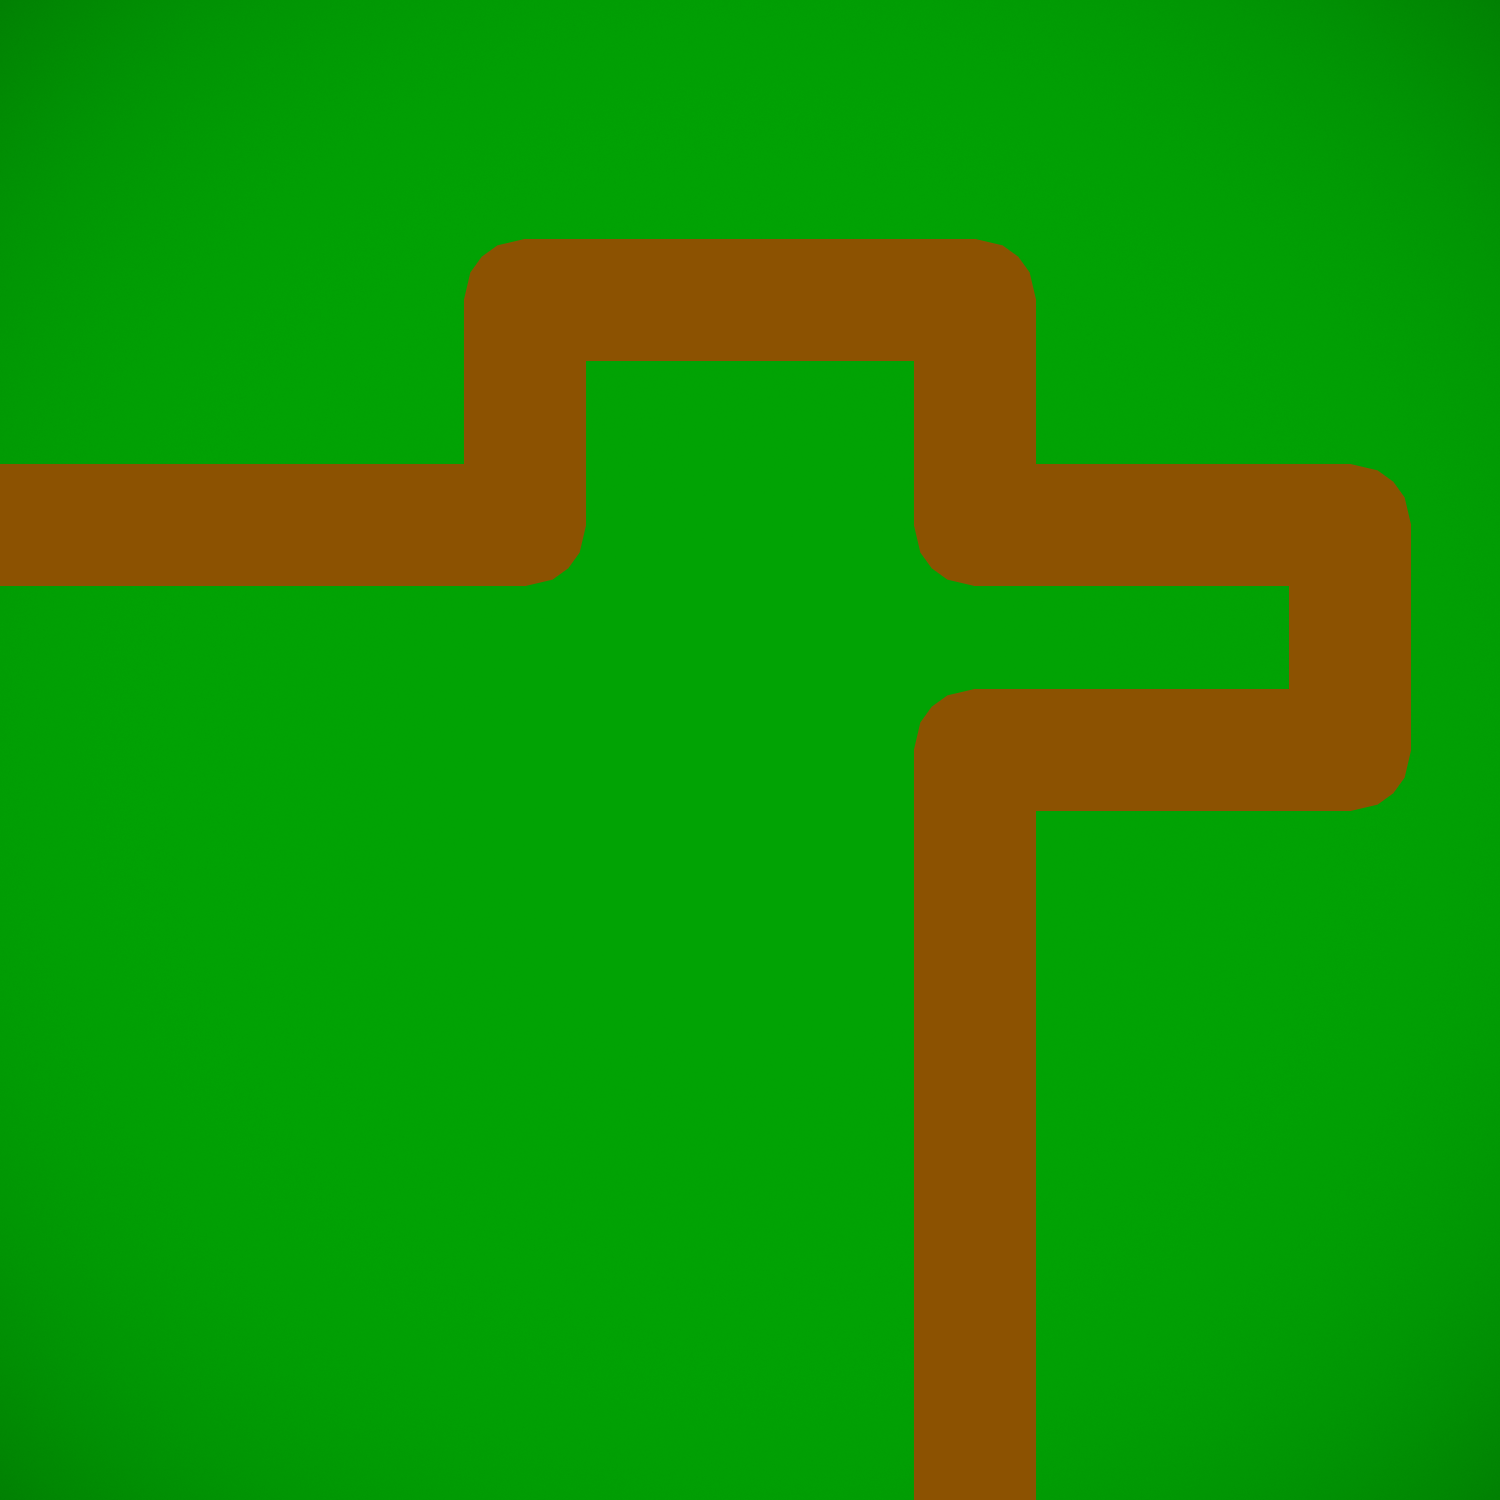
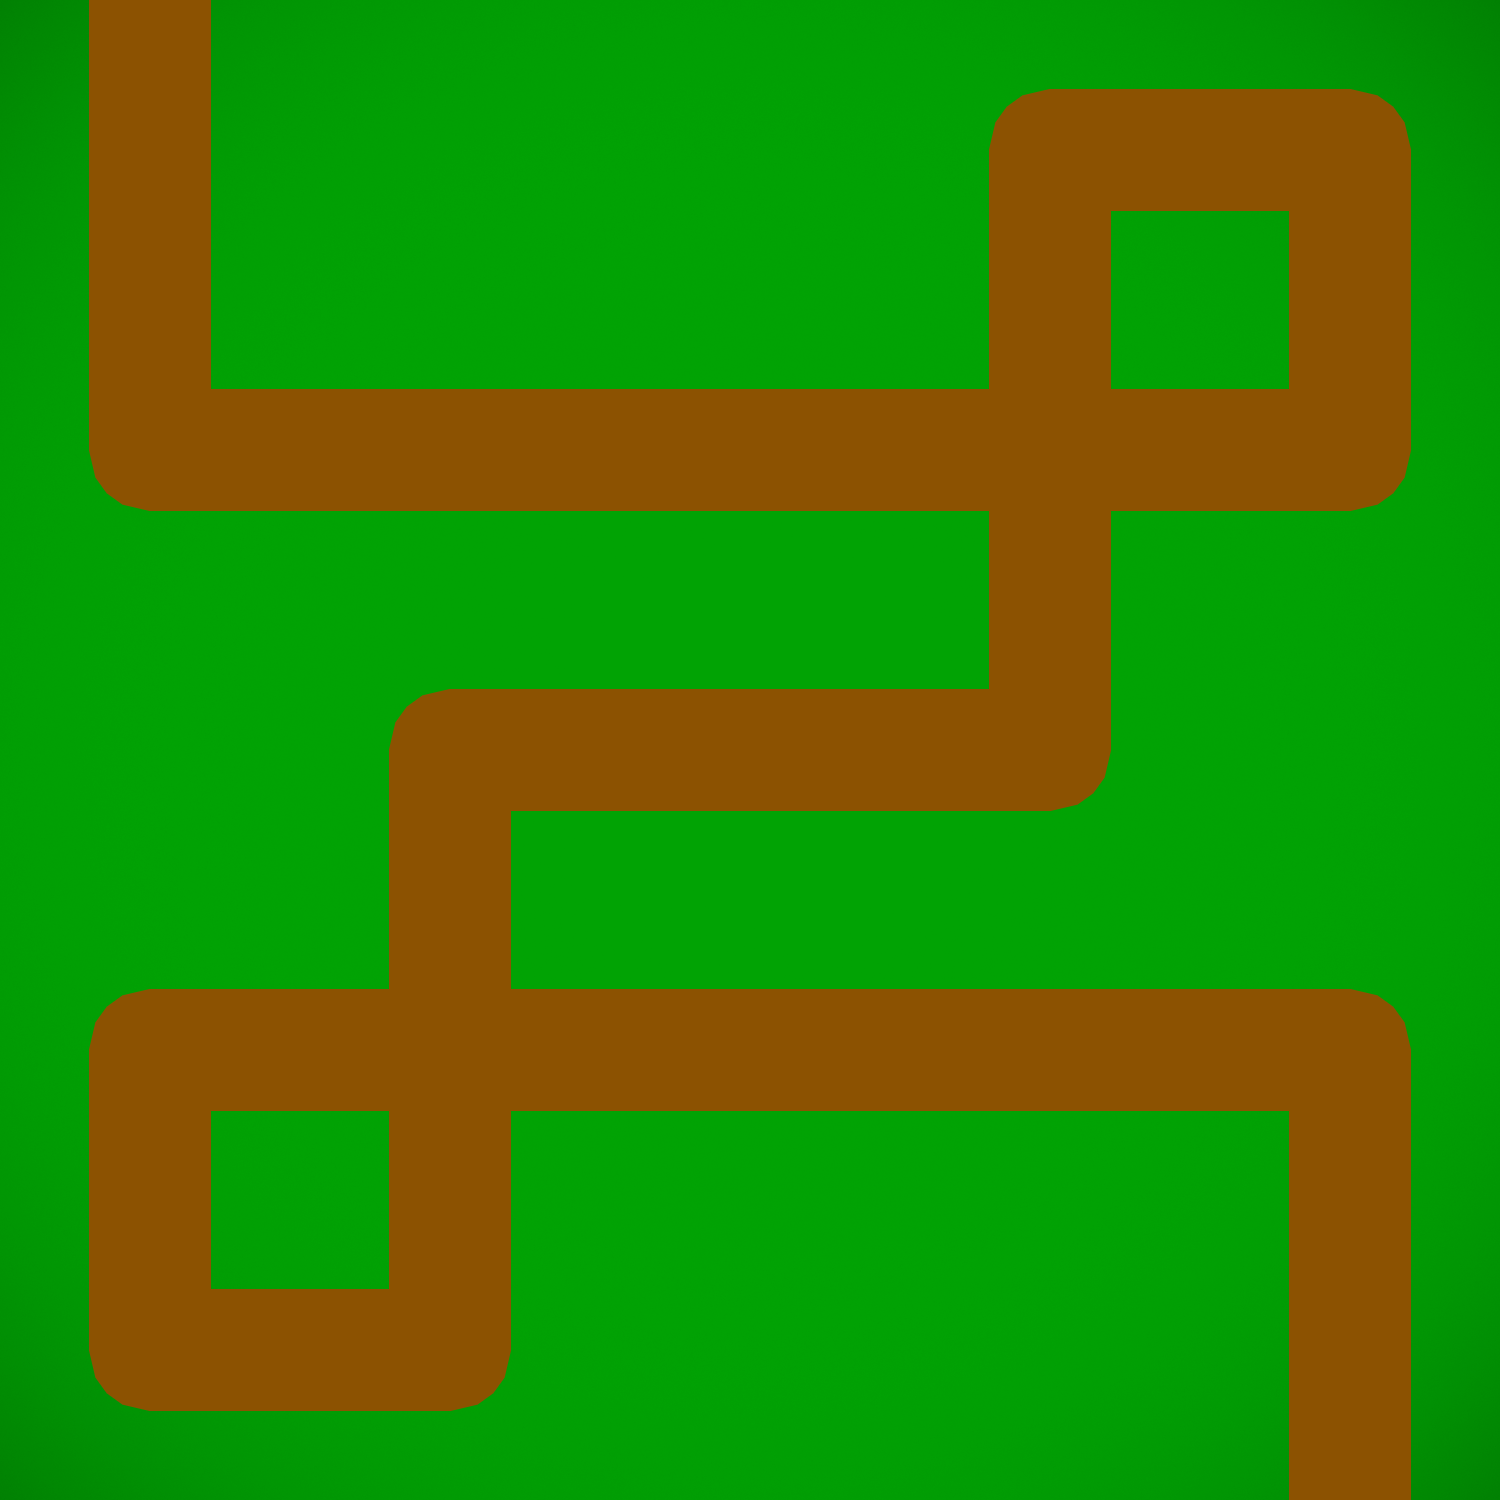
Import image for wave 9

diff --git a/app/utils/create-wave-9.js b/app/utils/create-wave-9.js
@@ -9,14 +9,14 @@ import Wave from 'tower-defense/objects/wave';
 
 function addBoardToWave(wave) {
   const board = Board.create();
-  board.set('imageUrl', '/images/path-0.png');
+  board.set('imageUrl', '/images/path-9.png');
 
   const pathObjects = [
     PathCoords.create({ x: 10, y: -3 }),
-    PathCoords.create({ x: 10, y: 40 }),
-    PathCoords.create({ x: 90, y: 40 }),
-    PathCoords.create({ x: 90, y: 20 }),
-    PathCoords.create({ x: 70, y: 20 }),
+    PathCoords.create({ x: 10, y: 30 }),
+    PathCoords.create({ x: 90, y: 30 }),
+    PathCoords.create({ x: 90, y: 10 }),
+    PathCoords.create({ x: 70, y: 10 }),
     PathCoords.create({ x: 70, y: 50 }),
     PathCoords.create({ x: 30, y: 50 }),
     PathCoords.create({ x: 30, y: 90 }),
@@ -36,14 +36,14 @@ function addBoardToWave(wave) {
 function addMobsToWave(wave) {
   const mobs = [];
 
-  const mobQuantity = 20;
+  const mobQuantity = 25;
   for (var i = 0; i < mobQuantity; i++) {
     const newMob = Mob.create({
       id: generateIdForRecord(),
-      frequency: 950,
+      frequency: 1000,
       health: 300,
       maxHealth: 300,
-      points: 5,
+      points: 4,
       quantity: mobQuantity,
       speed: 10, // seconds to cross one axis of the board
       type: 'standard'
@@ -68,8 +68,8 @@ function addTowerGroupsToWave(wave) {
     });
   }
 
-  const towerGroup1 = getNewTowerGroup(1, 25);
-  const towerGroup2 = getNewTowerGroup(1, 75);
+  const towerGroup1 = getNewTowerGroup(1, 17);
+  const towerGroup2 = getNewTowerGroup(1, 77);
 
   addTowersToTowerGroup(towerGroup1, [{ type: 1 }, { type: 2 }, { type: 1 }]);
   addTowersToTowerGroup(towerGroup2, [{ type: 1 }, { type: 2 }, { type: 1 }]);
